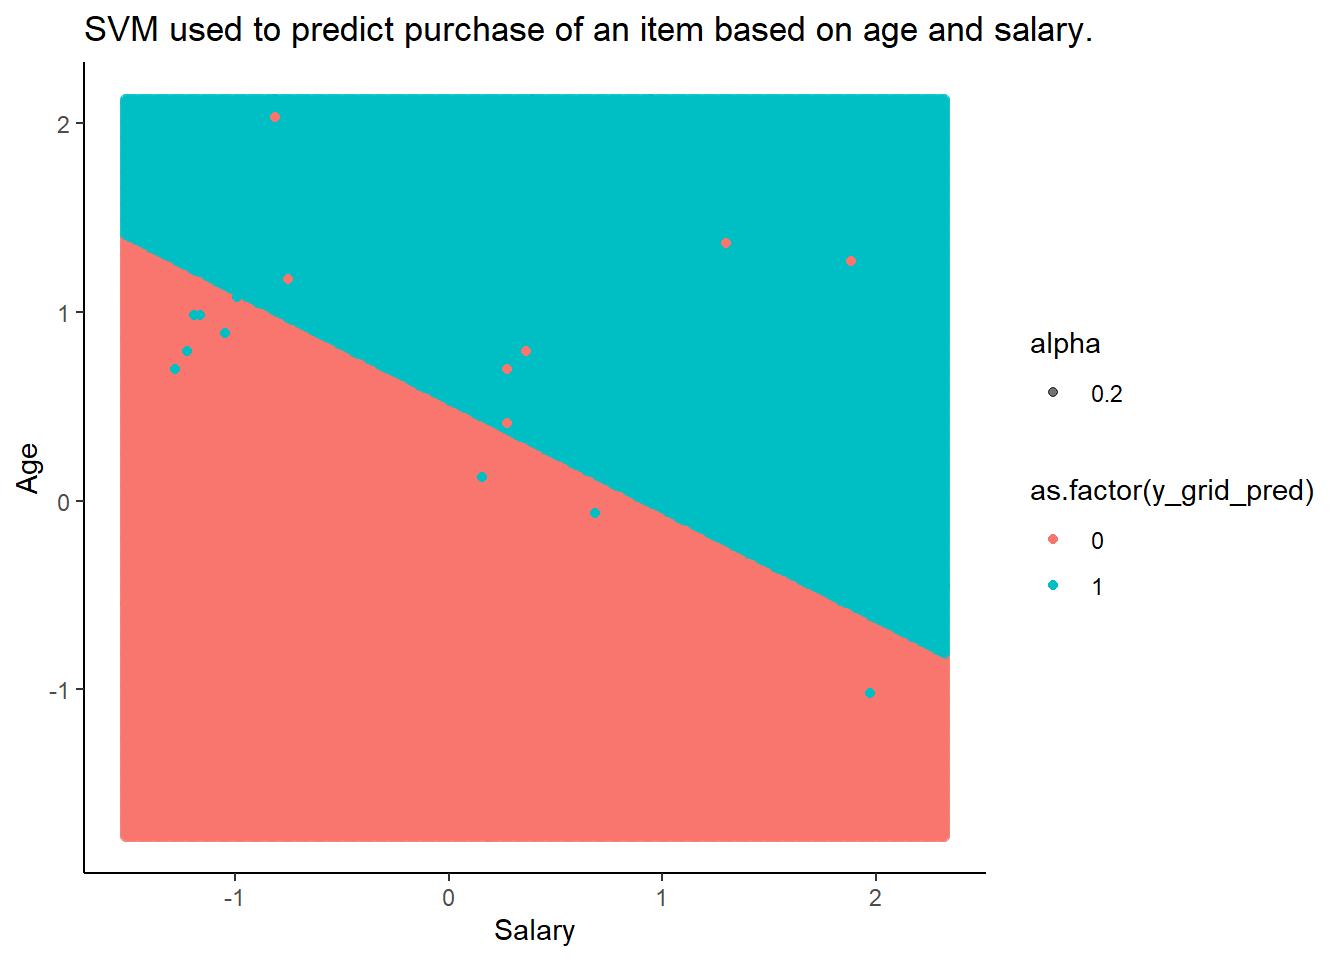
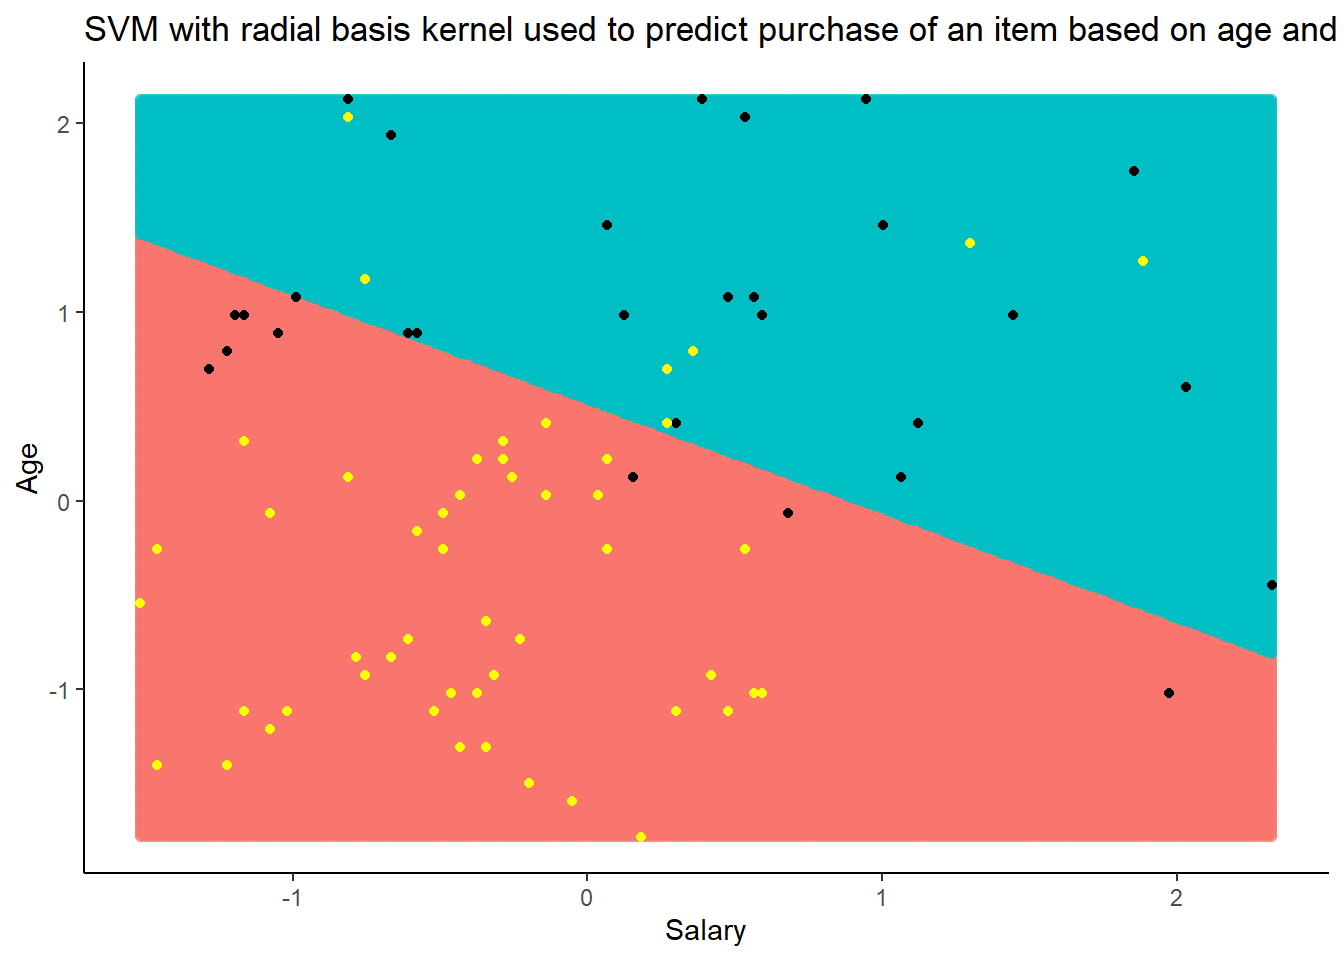
Added post on SVMs

diff --git a/content/post/2021-04-24-support-vector-machines-with-non-linear-kernels/index.html b/content/post/2021-04-24-support-vector-machines-with-non-linear-kernels/index.html
@@ -1,14 +1,14 @@
 ---
-title: Support Vector Machines (Linear)
+title: Support Vector Machines with Non-linear kernels
 author: Adogbeji Agberien
-date: '2021-04-23'
+date: '2021-04-24'
 slug: []
 categories: []
 tags: []
 subtitle: ''
-summary: 'This post is about linear Support Vector Machines; currently just implementation in R, hopefully will soon update to include the theory of the method'
+summary: 'This post is about non-linear Support Vector Machines; currently just implementation in R, hopefully will soon update to include the theory of the method'
 authors: []
-lastmod: '2021-04-23T21:32:19-04:00'
+lastmod: '2021-04-24T13:14:52-04:00'
 featured: no
 image:
   caption: ''
@@ -49,22 +49,22 @@ data_split &lt;- sample.split(social_network_ads$Purchased, SplitRatio = 0.8)
 training_set &lt;- subset(social_network_ads, data_split == T)
 test_set &lt;- subset(social_network_ads, data_split == F)</code></pre>
 <pre class="r"><code># Create the linear svm model
-svm_linear &lt;- svm(Purchased ~ Age + EstimatedSalary, data = training_set, type = &quot;C-classification&quot;, kernel = &quot;linear&quot;)
+svm_linear &lt;- svm(Purchased ~ Age + EstimatedSalary, data = training_set, type = &quot;C-classification&quot;, kernel = &quot;radial&quot;)
 summary(svm_linear)</code></pre>
 <pre><code>## 
 ## Call:
 ## svm(formula = Purchased ~ Age + EstimatedSalary, data = training_set, 
-##     type = &quot;C-classification&quot;, kernel = &quot;linear&quot;)
+##     type = &quot;C-classification&quot;, kernel = &quot;radial&quot;)
 ## 
 ## 
 ## Parameters:
 ##    SVM-Type:  C-classification 
-##  SVM-Kernel:  linear 
+##  SVM-Kernel:  radial 
 ##        cost:  1 
 ## 
-## Number of Support Vectors:  121
+## Number of Support Vectors:  82
 ## 
-##  ( 60 61 )
+##  ( 41 41 )
 ## 
 ## 
 ## Number of Classes:  2 
@@ -77,8 +77,8 @@ test_predictions &lt;- predict(svm_linear, test_set)</code></pre>
 table(test_predictions, test_set$Purchased)</code></pre>
 <pre><code>##                 
 ## test_predictions  0  1
-##                0 44  9
-##                1  7 20</code></pre>
+##                0 46  3
+##                1  5 26</code></pre>
 <pre class="r"><code># Create a grid for visualization
 the_grid &lt;- expand.grid(seq(min(test_set$EstimatedSalary), max(test_set$EstimatedSalary), 0.01),
                         seq(min(test_set$Age), max(test_set$Age), 0.01)) %&gt;% data.table() %&gt;% 

diff --git a/content/post/2021-04-24-support-vector-machines-with-non-linear-kernels/index_files/header-attrs/header-attrs.js b/content/post/2021-04-24-support-vector-machines-with-non-linear-kernels/index_files/header-attrs/header-attrs.js
@@ -1,0 +1,12 @@
+// Pandoc 2.9 adds attributes on both header and div. We remove the former (to
+// be compatible with the behavior of Pandoc < 2.8).
+document.addEventListener('DOMContentLoaded', function(e) {
+  var hs = document.querySelectorAll("div.section[class*='level'] > :first-child");
+  var i, h, a;
+  for (i = 0; i < hs.length; i++) {
+    h = hs[i];
+    if (!/^h[1-6]$/i.test(h.tagName)) continue;  // it should be a header h1-h6
+    a = h.attributes;
+    while (a.length > 0) h.removeAttribute(a[0].name);
+  }
+});
